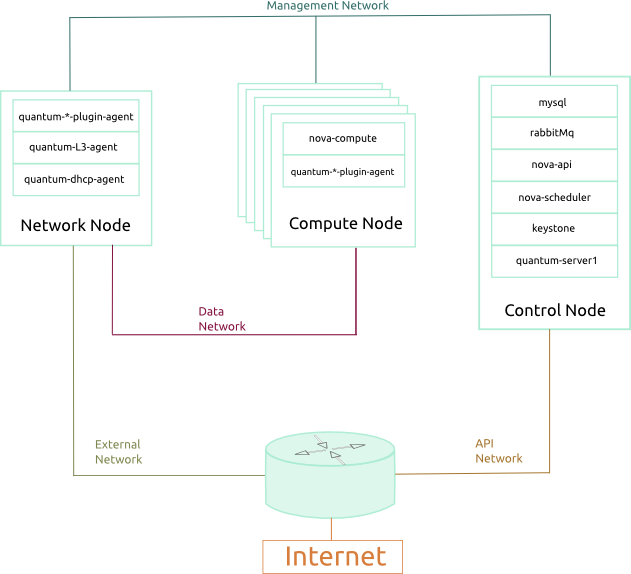
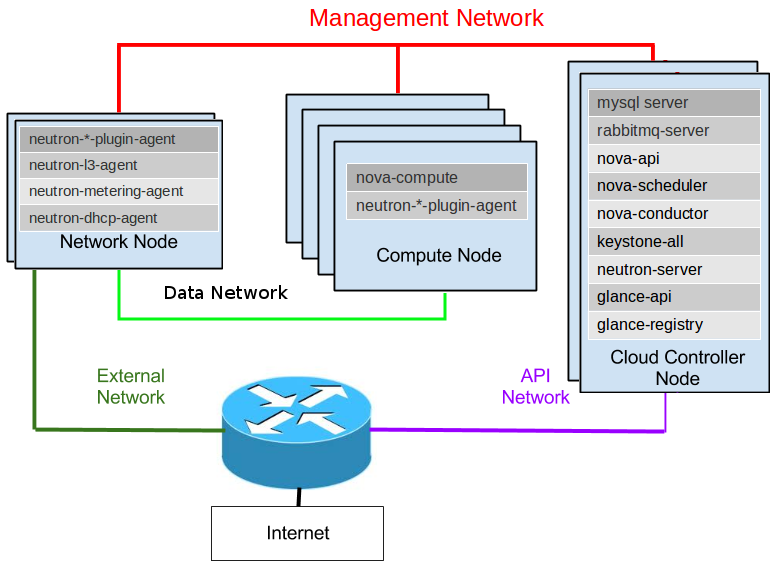
convert associate guide chapter 7 XML to RST
- convert chapter Network node XML to RST
- change image33.png (older image used quantum)
- update screen.css (use larger font, original was to small)

Implements: blueprint convert-the-xml-into-rst

diff --git a/doc/training-guides/theme/css/screen.css b/doc/training-guides/theme/css/screen.css
@@ -235,7 +235,7 @@ div.slide div.presenter_notes, div.slides div.presenter_notes {
 /* Slide styles */
 
 div.slide p {
-  font-size: 20px;
+  font-size: 28px;
 }
 
 .slide.far-past {
@@ -371,8 +371,8 @@ blockquote {
 }
 
 li {
-  padding: 10px 0;
-  font-size: 20px;
+  padding: 2px 0;
+  font-size: 28px;
 }
 
 li pre { margin-left: 0em; }

diff --git a/doc/training-guides/associate-guide/07-associate-network-node.rst b/doc/training-guides/associate-guide/07-associate-network-node.rst
@@ -1,0 +1,225 @@
+Networking in OpenStack
+=======================
+
+- Project name ``neutron``
+- Rich tenant-facing API to defining network connectivity and addressing in
+  the cloud
+- Supports each tenant having isolated:
+    - multiple private networks
+    - IP addressing scheme (can overlap with those used by
+      other tenants)
+
+----
+
+Networking API resources
+========================
+
+- Network:
+    - L2 segment like VLAN in a physical world
+- Subnet:
+    - IPv4 and IPv6 IP address block and config
+- Port:
+    - Connection point between a vNIC and a virtual network
+    - Also describes associated network config (MAC, IP)
+
+----
+
+Plugins
+=======
+
+- Original Compute network implementation (``nova-network``):
+    - isolation through Linux VLANs and iptables
+- ``neutron`` introduces plug-in concept:
+    - Pluggable back-end implementation of the OpenStack Networking APIs:
+        - VLANs and iptables
+        - L2-in-L3 tunneling
+        - OpenFlow, etc.
+
+----
+
+Current Set of Plugins
+======================
+
+Complete list of supported plugins https://wiki.openstack.org/wiki/Neutron_Plugins_and_Drivers
+
+.. class:: colleft
+
+- Big Switch
+- Brocade
+- Cisco
+- CloudBase Hyper-V
+- IBM SDN-VE
+- Linux Bridge
+
+.. class:: colright
+
+- Midonet
+- ML2 (Modular Layer 2)
+- NEC OpenFlow
+- Open vSwitch
+- PLUMgrid
+- VMware NSX
+
+Presenter Notes
+===============
+
+Plugin list taken from: http://docs.openstack.org/admin-guide-cloud/content/section_plugin-arch.html
+
+- Big Switch, Floodlight REST Proxy: http://www.openflowhub.org/display/floodlightcontroller/Quantum+REST+Proxy+Plugin
+- Brocade Plugin
+- Cisco: Documented externally at: https://wiki.openstack.org/wiki/Cisco-neutron
+- Hyper-V Plugin
+- Linux Bridge: Documentation included in this guide and
+    https://wiki.openstack.org/wiki/Neutron-Linux-Bridge-Plugin
+- Midonet Plugin
+- NEC OpenFlow: https://wiki.openstack.org/wiki/Neutron/NEC_OpenFlow_Plugin
+- Open vSwitch: Documentation included in this guide.
+- PLUMgrid: https://wiki.openstack.org/wiki/PLUMgrid-Neutron
+- VMware NSX: Documentation include in this guide, NSX Product Overview ,
+  and NSX Product Support.
+
+----
+
+Components of OpenStack Networking
+==================================
+
+``neutron-server``
+
+- Requires access to a database for persistent storage
+- Can co-exist with controller or separately
+- Requires additional agents
+
+----
+
+Networking Agents
+=================
+
+- **plugin agent** (neutron- * -agent): runs on each hypervisor
+- **dhcp agent** (neutron-dhcp-agent): provides DHCP services
+- **l3 agent** (neutron-l3-agent): provides L3/NAT forwarding (external
+  network access)
+
+
+- Agents communicate through RPC (e.g. RabbitMQ) and/or API
+- Great flexibility how to deploy neutron services, plugins and agents
+
+Presenter Notes
+===============
+
+- plugin agent (neutron- * -agent):Runs on each hypervisor to perform local
+  vswitch configuration. Agent to be run depends on which plug-in you are
+  using, as some plug-ins do not require an agent
+- dhcp agent (neutron-dhcp-agent):Provides DHCP services to tenant
+  networks,this agent is the same across all plug-ins
+- l3 agent (neutron-l3-agent):Provides L3/NAT forwarding to provide
+  external network access for VMs on tenant networks. This agent is the
+  same across all plug-ins
+
+
+----
+
+Network Types
+=============
+
+Typically at least **four** distinct **physical** data center **networks**:
+
+- **Management network:** internal communication between OpenStack
+  Components.
+- **Data network:** VM data communication within the cloud deployment.
+- **External network:** provide VMs with Internet access.
+- **API network:** exposes all OpenStack APIs.
+
+Presenter Notes
+===============
+
+- **Management network:** Used for internal communication between OpenStack
+  Components. The IP addresses on this network should be reachable
+  only within the data center.
+- **Data network:** Used for VM data communication within the cloud
+  deployment. The IP addressing requirements of this network depend
+  on the OpenStack Networking plug-in in use.
+- **External network:** Used to provide VMs with Internet access, in some
+  deployment scenarios. The IP addresses on this network should be
+  reachable by anyone on the Internet.
+- **API network:** Exposes all OpenStack APIs, including the OpenStack
+  Networking API, to tenants. The IP addresses on this network should
+  be reachable by anyone on the Internet. This may be the same network
+  as the external network, as it is possible to create a subnet for
+  the external network that uses IP allocation ranges to use only less
+  than the full range of IP addresses in an IP block.
+
+----
+
+OpenStack Networking - Connectivity
+===================================
+
+.. image:: ../figures/image33.png
+
+----
+
+OpenStack Networking Concepts
+=============================
+
+- Tenant networks, provider networks
+- Tenant network types:
+    - **Local**: within single host
+    - **Flat**: no network segmentation, single broadcast domain
+    - **VLAN**: VLAN for segmentation
+    - **VXLAN, GRE**: Overlay networks, tunnels encapsulate network traffic
+
+----
+
+OpenStack Networking Concepts (cont)
+====================================
+
+- Namespaces:
+    - Each network creates and unique namespace “netns”
+    - netns hosts an interface and IP addresses for dnsmasq and the
+      neutron-ns-metadata-proxy
+- Metadata:
+    - Not all networks or VMs need metadata access.
+    - Create the subnet without specifying a gateway IP and with a static
+      route from 0.0.0.0/0 to your gateway IP address
+- OVS Bridge:
+    - Isolate the traffic
+
+----
+
+OpenStack Networking Concepts (cont)
+====================================
+
+.. image:: ../figures/image49.png
+
+----
+
+Managing Networks - CLI
+=======================
+
+Networks:
+
+- ``neutron ext-list -c alias -c name`` (list network extensions)
+- ``neutron net-create net1``
+- ``neutron net-create net2 --provider:network-type local``
+
+Subnets:
+
+- ``neutron subnet-create net1 192.168.2.0/24 --name subnet1``
+  (name, CIDR, subnet name – optional)
+
+----
+
+Managing Networks - CLI
+=======================
+
+Routers:
+
+- To provider net: ``neutron router-gateway-set ROUTER NETWORK``
+- To subnet: ``neutron router-interface-add ROUTER SUBNET``
+
+Ports:
+
+- ``neutron port-create net1 --fixed-ip ip_address=192.168.2.40``
+- ``neutron port-create net1`` (without fix ip)
+- Query ports: ``neutron port-list --fixed-ips``
+
+  - ``neutron port-list --fixed-ips ip_address=10.0.0.4``
